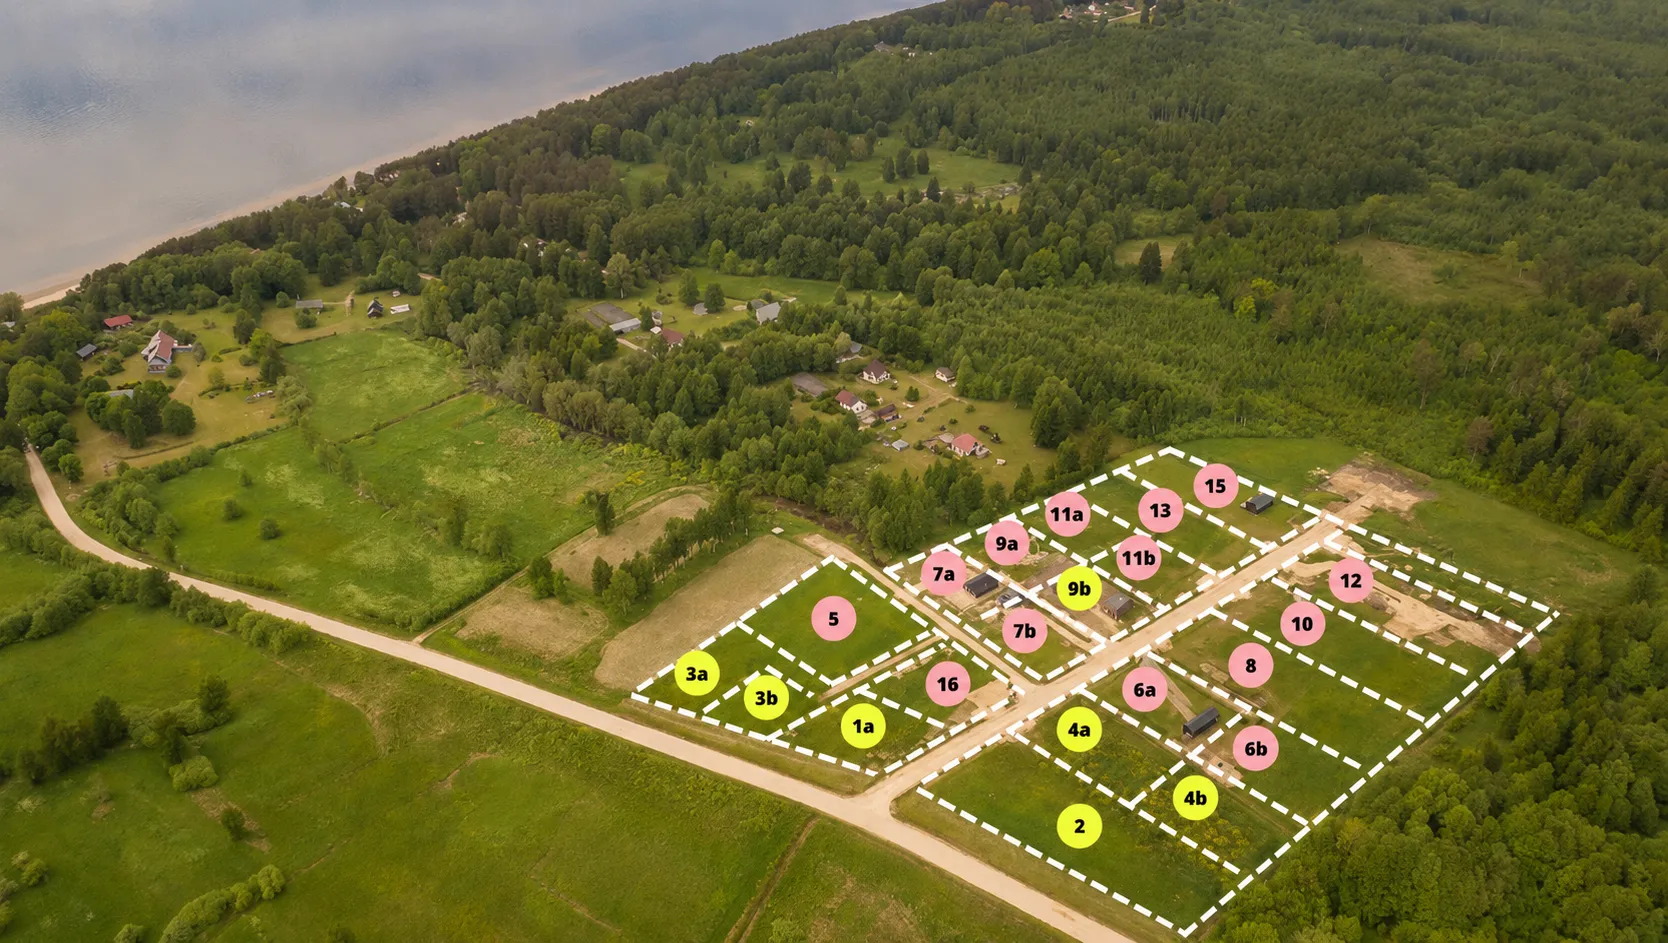
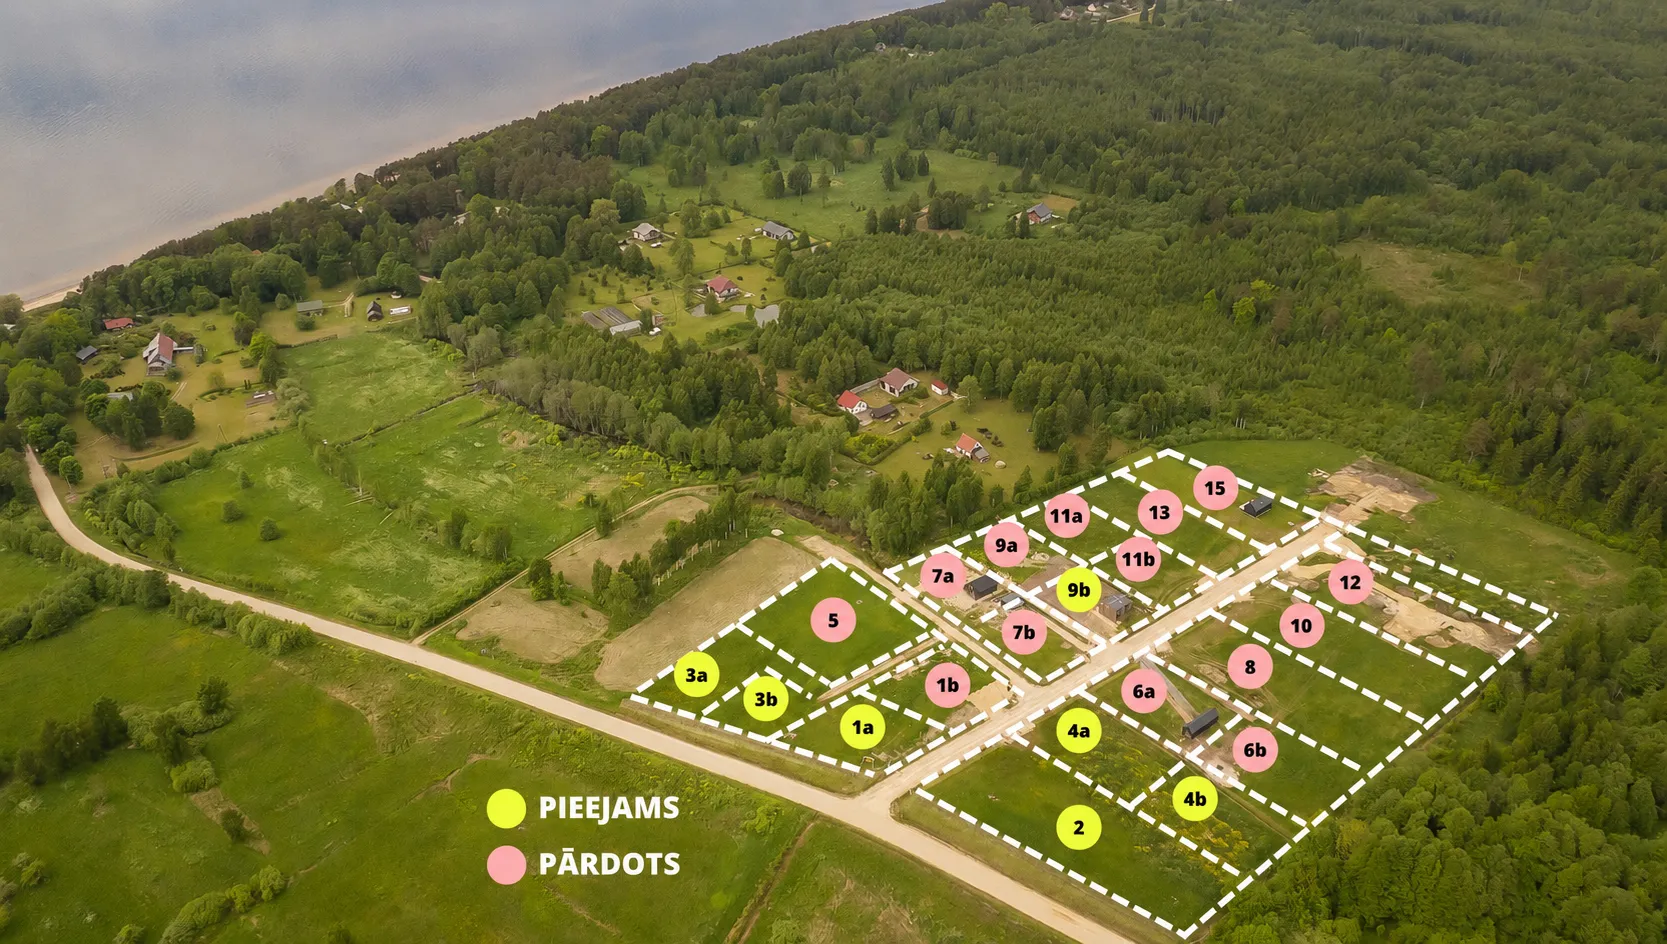
fix: change aerial image and improve mobile support

diff --git a/index.html b/index.html
@@ -177,7 +177,6 @@
             <div class="land-plan-grid">
               <img src="data/land_2.webp" alt="Zemes plāns 2" class="land-plan-img lightbox-trigger" loading="lazy" width="1024" height="682" />
               <img src="data/land_3.webp" alt="Zemes plāns 3" class="land-plan-img lightbox-trigger" loading="lazy" width="1024" height="682" />
-              <img src="data/land_4.webp" alt="Zemes plāns 4" class="land-plan-img lightbox-trigger" loading="lazy" width="1024" height="682" />
             </div>
           </div>
 
@@ -204,6 +203,7 @@
               </thead>
               <tbody>
                 <tr data-status="available" data-plot="1a"><td>Jūras iela 1a</td><td data-translate="table-land">Zeme</td><td>1 300</td><td>33 800</td><td><span class="status-dot status-dot--available"></span> <span data-translate="status-available">Pieejams</span></td></tr>
+                <tr data-status="sold" data-plot="1b"><td>Jūras iela 1b</td><td data-translate="table-land">Zeme</td><td>1 252</td><td>-</td><td><span class="status-dot status-dot--sold"></span> <span data-translate="status-sold">Pārdots</span></td></tr>
                 <tr data-status="available" data-plot="2"><td>Jūras iela 2</td><td data-translate="table-land">Zeme</td><td>2 632</td><td>65 800</td><td><span class="status-dot status-dot--available"></span> <span data-translate="status-available">Pieejams</span></td></tr>
 <tr data-status="available" data-plot="3a"><td>Jūras iela 3a</td><td data-translate="table-land-house-60">Zeme un māja (60m²)</td><td>1 345</td><td>159 000</td><td><span class="status-dot status-dot--available"></span> <span data-translate="status-available">Pieejams</span></td></tr>
                 <tr data-status="available" data-plot="3b"><td>Jūras iela 3b</td><td data-translate="table-land-house-60">Zeme un māja (60m²)</td><td>1 165</td><td>155 000</td><td><span class="status-dot status-dot--available"></span> <span data-translate="status-available">Pieejams</span></td></tr>
@@ -223,7 +223,6 @@
                 <tr data-status="sold" data-plot="12"><td>Jūras iela 12</td><td data-translate="table-land">Zeme</td><td>2 684</td><td>-</td><td><span class="status-dot status-dot--sold"></span> <span data-translate="status-sold">Pārdots</span></td></tr>
                 <tr data-status="reserved" data-plot="13"><td>Jūras iela 13</td><td data-translate="table-land">Zeme</td><td>2 549</td><td>66 274</td><td><span class="status-dot status-dot--reserved"></span> <span data-translate="status-reserved">Rezervēts</span></td></tr>
                 <tr data-status="sold" data-plot="15"><td>Jūras iela 15</td><td data-translate="table-land">Zeme</td><td>2 521</td><td>-</td><td><span class="status-dot status-dot--sold"></span> <span data-translate="status-sold">Pārdots</span></td></tr>
-                <tr data-status="sold" data-plot="16"><td>Jūras iela 16</td><td data-translate="table-land">Zeme</td><td>1 252</td><td>-</td><td><span class="status-dot status-dot--sold"></span> <span data-translate="status-sold">Pārdots</span></td></tr>
               </tbody>
             </table>
           </div>
@@ -239,7 +238,7 @@
             <img src="data/land_7.webp" alt="Ceļš uz jūru" class="masonry-img lightbox-trigger" loading="lazy" width="1024" height="681" />
             <img src="data/land_8.webp" alt="Ciemata apkārtne" class="masonry-img lightbox-trigger" loading="lazy" width="1024" height="682" />
             <img src="data/land_9.webp" alt="Pludmale" class="masonry-img lightbox-trigger" loading="lazy" width="1024" height="682" />
-            <img src="data/land_10.webp" alt="Saulriets pie jūras" class="masonry-img lightbox-trigger" loading="lazy" width="1024" height="682" />
+            <img src="data/land_10.webp" alt="Jūrasmala no augšas" class="masonry-img lightbox-trigger" loading="lazy" width="1024" height="682" />
           </div>
         </div>
       </section>

diff --git a/styles.css b/styles.css
@@ -726,13 +726,13 @@ body {
 /* --- Land Plan Grid --- */
 .land-plan-grid {
   display: grid;
-  grid-template-columns: repeat(3, 1fr);
+  grid-template-columns: repeat(2, 1fr);
   gap: 0.75rem;
 }
 
 .land-plan-img {
   width: 100%;
-  height: 180px;
+  aspect-ratio: 3 / 2;
   object-fit: cover;
   border-radius: 3px;
   cursor: pointer;
@@ -1330,10 +1330,6 @@ body {
     padding: 0.3rem 0.4rem;
   }
 
-  .land-plan-img {
-    height: 150px;
-  }
-
   .plots-table {
     font-size: 0.85rem;
   }
@@ -1421,32 +1417,18 @@ body {
     height: 300px;
   }
 
-  /* Construction */
+  /* Construction — keep 2-col on mobile */
   .construction-bento {
-    grid-template-columns: 1fr;
+    gap: 0.5rem;
   }
 
-  /* Room gallery mobile: vertical stack */
-  .room-gallery-strip {
-    flex-direction: column;
-    overflow-x: visible;
-    scroll-snap-type: none;
-    padding: 0 var(--container-pad);
-    gap: 1rem;
-  }
-
+  /* Room gallery mobile: horizontal swipe */
   .room-gallery-img {
-    width: 100%;
+    width: 85vw;
     height: 250px;
-    scroll-snap-align: none;
   }
 
   .room-gallery-arrow {
-    display: none;
-  }
-
-  .room-gallery-wrap::before,
-  .room-gallery-wrap::after {
     display: none;
   }
 
@@ -1455,9 +1437,6 @@ body {
     grid-template-columns: repeat(2, 1fr);
   }
 
-  .land-plan-img {
-    height: 150px;
-  }
 
   /* Filter tabs */
   .filter-tabs {
@@ -1505,9 +1484,9 @@ body {
     margin-top: 2rem;
   }
 
-  /* Masonry */
+  /* Masonry — keep 2-col on mobile */
   .masonry-gallery {
-    column-count: 1;
+    column-count: 2;
   }
 
   /* Partners */
@@ -1588,9 +1567,6 @@ body {
     height: 200px;
   }
 
-  .land-plan-img {
-    height: 120px;
-  }
 
   .plots-table {
     min-width: 480px;
